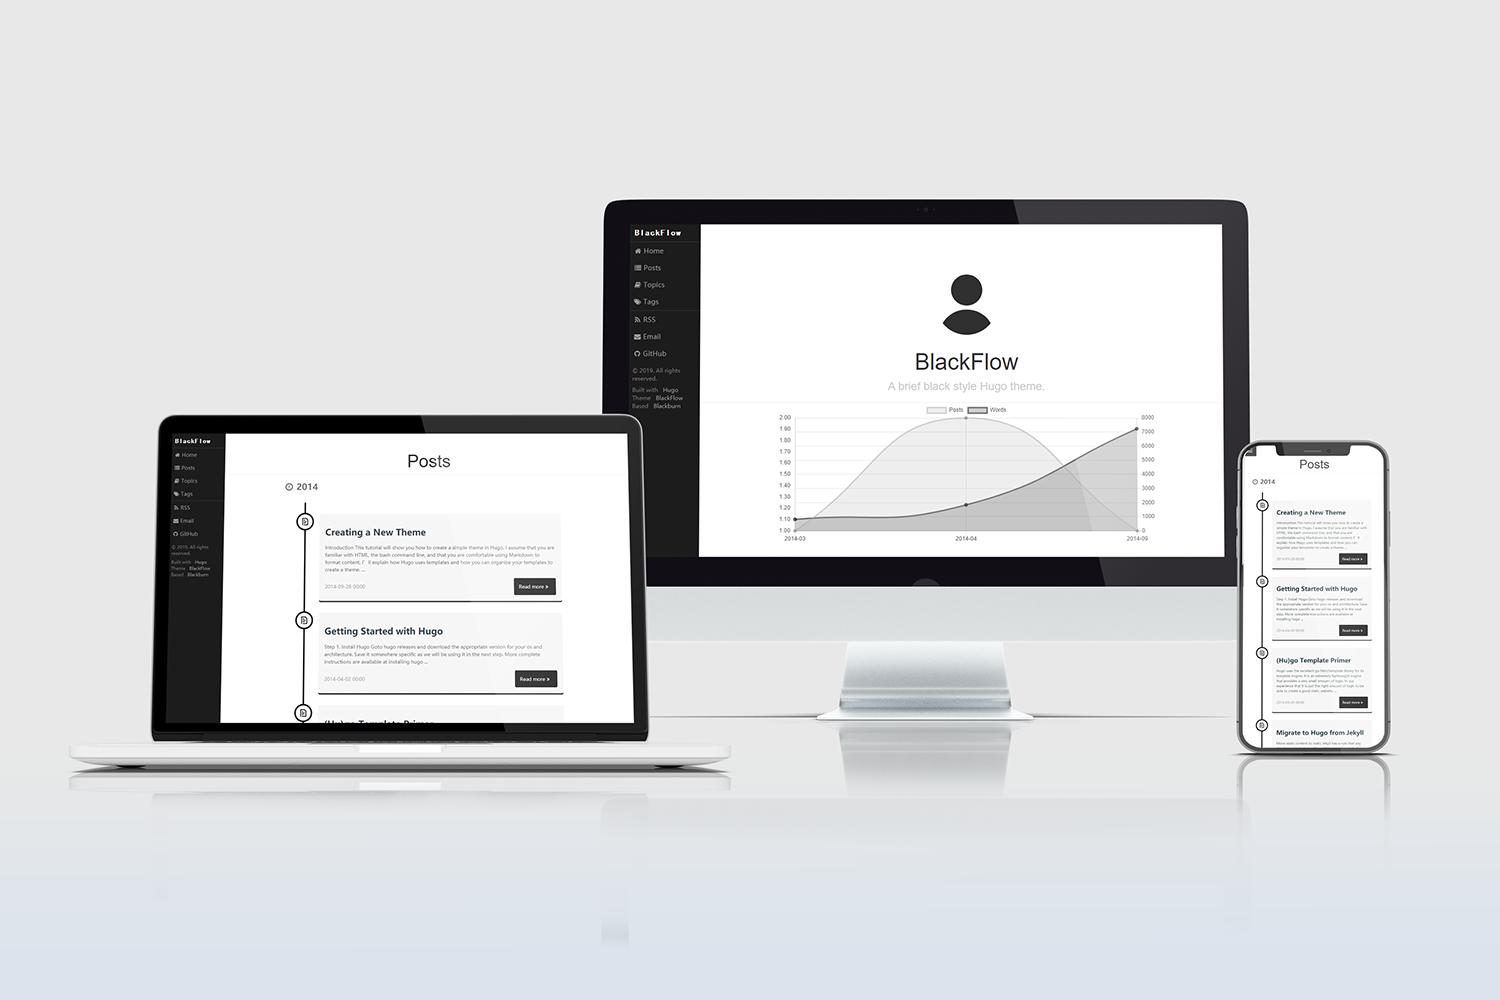
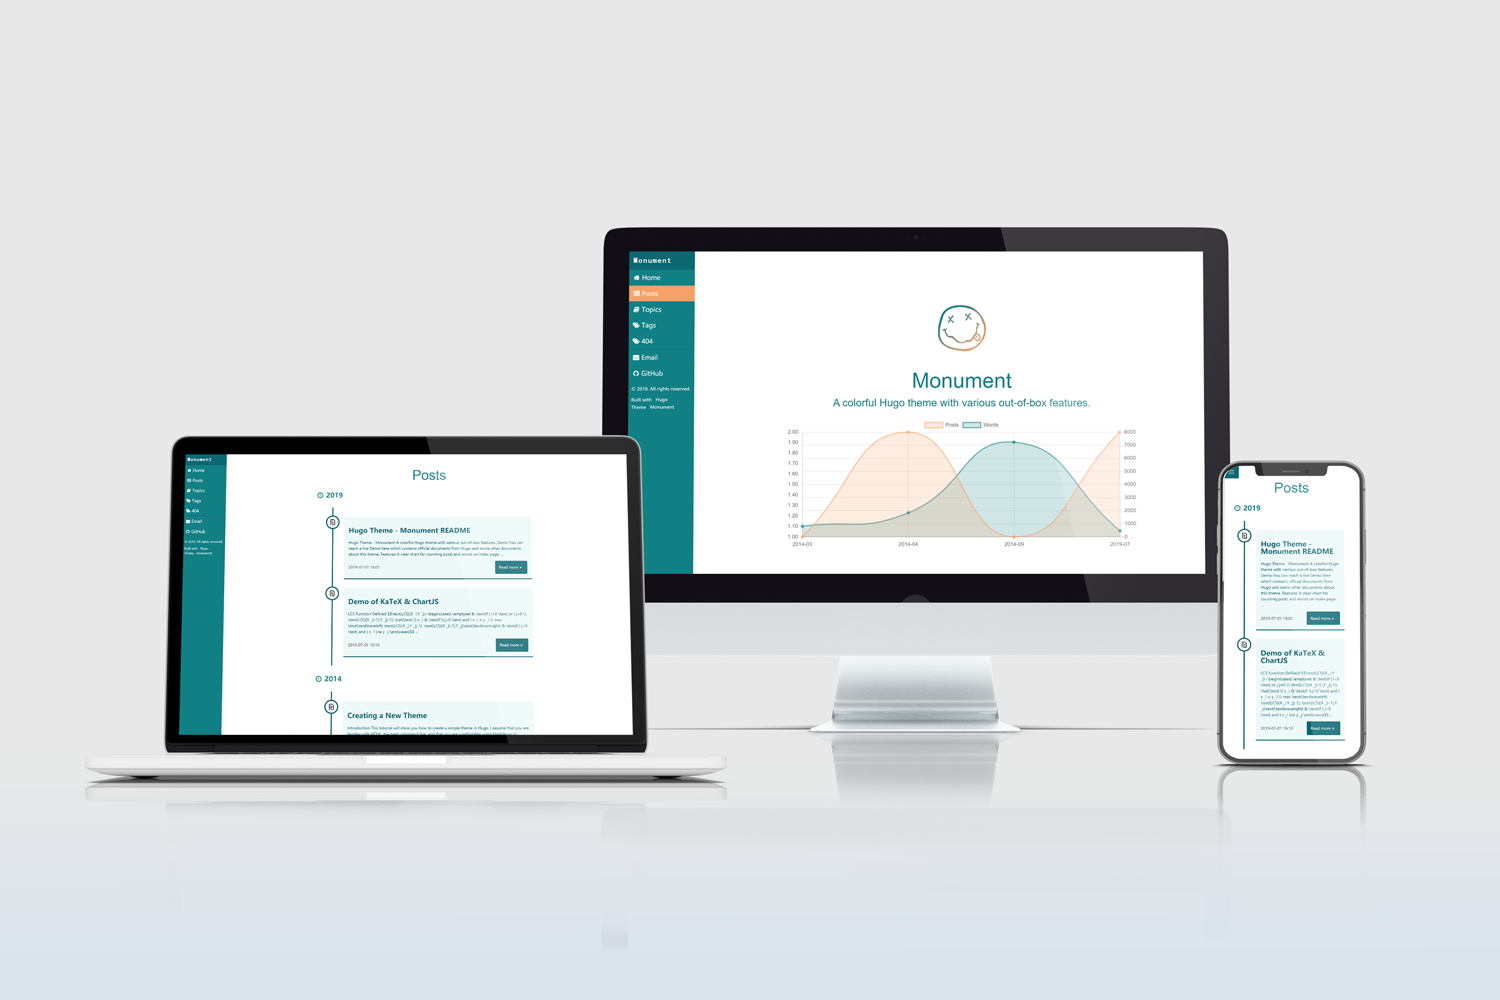
Fix bugs. Update images.

Changed region(s): [[0.0307, 0.186, 0.9507, 0.806]]

diff --git a/static/css/sidemenu.css b/static/css/sidemenu.css
@@ -57,7 +57,6 @@ The content `<div>` is where all your content goes.
     }
      .header h2 {
         font-weight: 300;
-        color: #FFF;
         padding: 0;
         margin-top: 0;
     }
@@ -123,10 +122,11 @@ appears on the left side of the page.
     /*
     This styles the selected menu item `<li>`.
     */
-    #menu .pure-menu-selected,
+    #menu .pure-menu-selected{
+        background: #F15340;
+    }
     #menu .pure-menu-heading {
-        background: #076570;
-        
+        background: #076570;        
     }
         /*
         This styles a link within a selected menu item `<li>`.
@@ -163,7 +163,7 @@ small screens.
     display: block; /* show this only on small screens */
     top: 0;
     left: 0; /* "#menu width" */
-    background: #F15340;
+    background: #076570;
     font-size: 10px; /* change this value to increase/decrease button size */
     z-index: 10;
     width: 2em;
@@ -171,9 +171,8 @@ small screens.
     padding: 2.1em 1.6em;
 }
 
-    .menu-link:hover,
-    .menu-link:focus {
-        background: #F15340;
+    .menu-link:hover{
+        background: #F79F66;
     }
 
     .menu-link span {

diff --git a/static/css/timeline.css b/static/css/timeline.css
@@ -82,7 +82,7 @@
   .cd-timeline-content {
     position: relative;
     margin-left: 60px;
-    background: #ADE0E0;
+    background: #EDF9F9;
     border-radius: 0.25em;
     padding: 1em;
     box-shadow: 0 3px 0 #076570;
@@ -96,13 +96,12 @@
   .cd-timeline-content:hover{
     transform: translate(3%);
   }
-  .cd-timeline-content h2 {
-    color: #FFF;
+  .cd-timeline-content h2, .cd-timeline-content h3, .cd-timeline-content p {
+    color: #076570;
   }
   .cd-timeline-content p, .cd-timeline-content .cd-read-more, .cd-timeline-content .cd-date {
     font-size: 13px;
     font-size: 0.8125rem;
-    color: #FFF;
   }
   .cd-timeline-content .cd-read-more, .cd-timeline-content .cd-date {
     display: inline-block;
@@ -134,5 +133,5 @@
     height: 0;
     width: 0;
     border: 7px solid transparent;
-    border-right: 7px solid #0D7E83;
+    border-right: 7px solid #EDF9F9;
   }

diff --git a/layouts/partials/copyright.html b/layouts/partials/copyright.html
@@ -4,7 +4,6 @@
   </div>
   <div class="small-print">
     <small>Built with&nbsp;<a href="https://gohugo.io/" target="_blank">Hugo</a></small>
-    <small>Theme&nbsp;<a href="https://github.com/MrCroxx/Hugo-BlackFlow" target="_blank">BlackFlow</a></small>
-    <small>Based&nbsp;<a href="https://github.com/yoshiharuyamashita/blackburn" target="_blank">Blackburn</a></small>
+    <small>Theme&nbsp;<a href="https://github.com/MrCroxx/Hugo-Theme-Monument" target="_blank">Monument</a></small>
   </div>
 </div>

diff --git a/layouts/partials/social.html b/layouts/partials/social.html
@@ -1,13 +1,6 @@
 <div class="pure-menu social">
   <ul class="pure-menu-list">
 
-    {{ if .OutputFormats.Get "RSS" }}
-    <li class="pure-menu-item">
-      <a class="pure-menu-link" href='{{ with .OutputFormats.Get "RSS" }}{{ .RelPermalink }}{{ end }}'><i
-          class="fa fa-rss fa-fw"></i>RSS</a>
-    </li>
-    {{ end }}
-
     <!-- Email -->
     {{ with .Site.Social.email }}
     <li class="pure-menu-item">

diff --git a/layouts/_default/single.html b/layouts/_default/single.html
@@ -33,6 +33,14 @@
 
         {{ partial "post_meta.html" . }}
 
+        <hr>
+
+        <h2>Catalogue</h2>
+
+        {{ .TableOfContents }}
+
+        <hr>
+
         {{ .Content }}
     
         {{ partial "prev_next_post.html" . }}

diff --git a/layouts/taxonomy/tag.html b/layouts/taxonomy/tag.html
@@ -1,3 +1,7 @@
+{{ define "custom-css" }}
+<link rel="stylesheet" href="{{ .Site.BaseURL }}/css/timeline.css" />
+{{ end }}
+
 {{ define "main" }}
 
 <div class="header">

diff --git a/static/css/monument.css b/static/css/monument.css
@@ -102,3 +102,7 @@ i {
   transform: translateY(-10%);
   cursor: pointer;
 }
+
+#TableOfContents{
+  background: #f6f6f6;
+}
